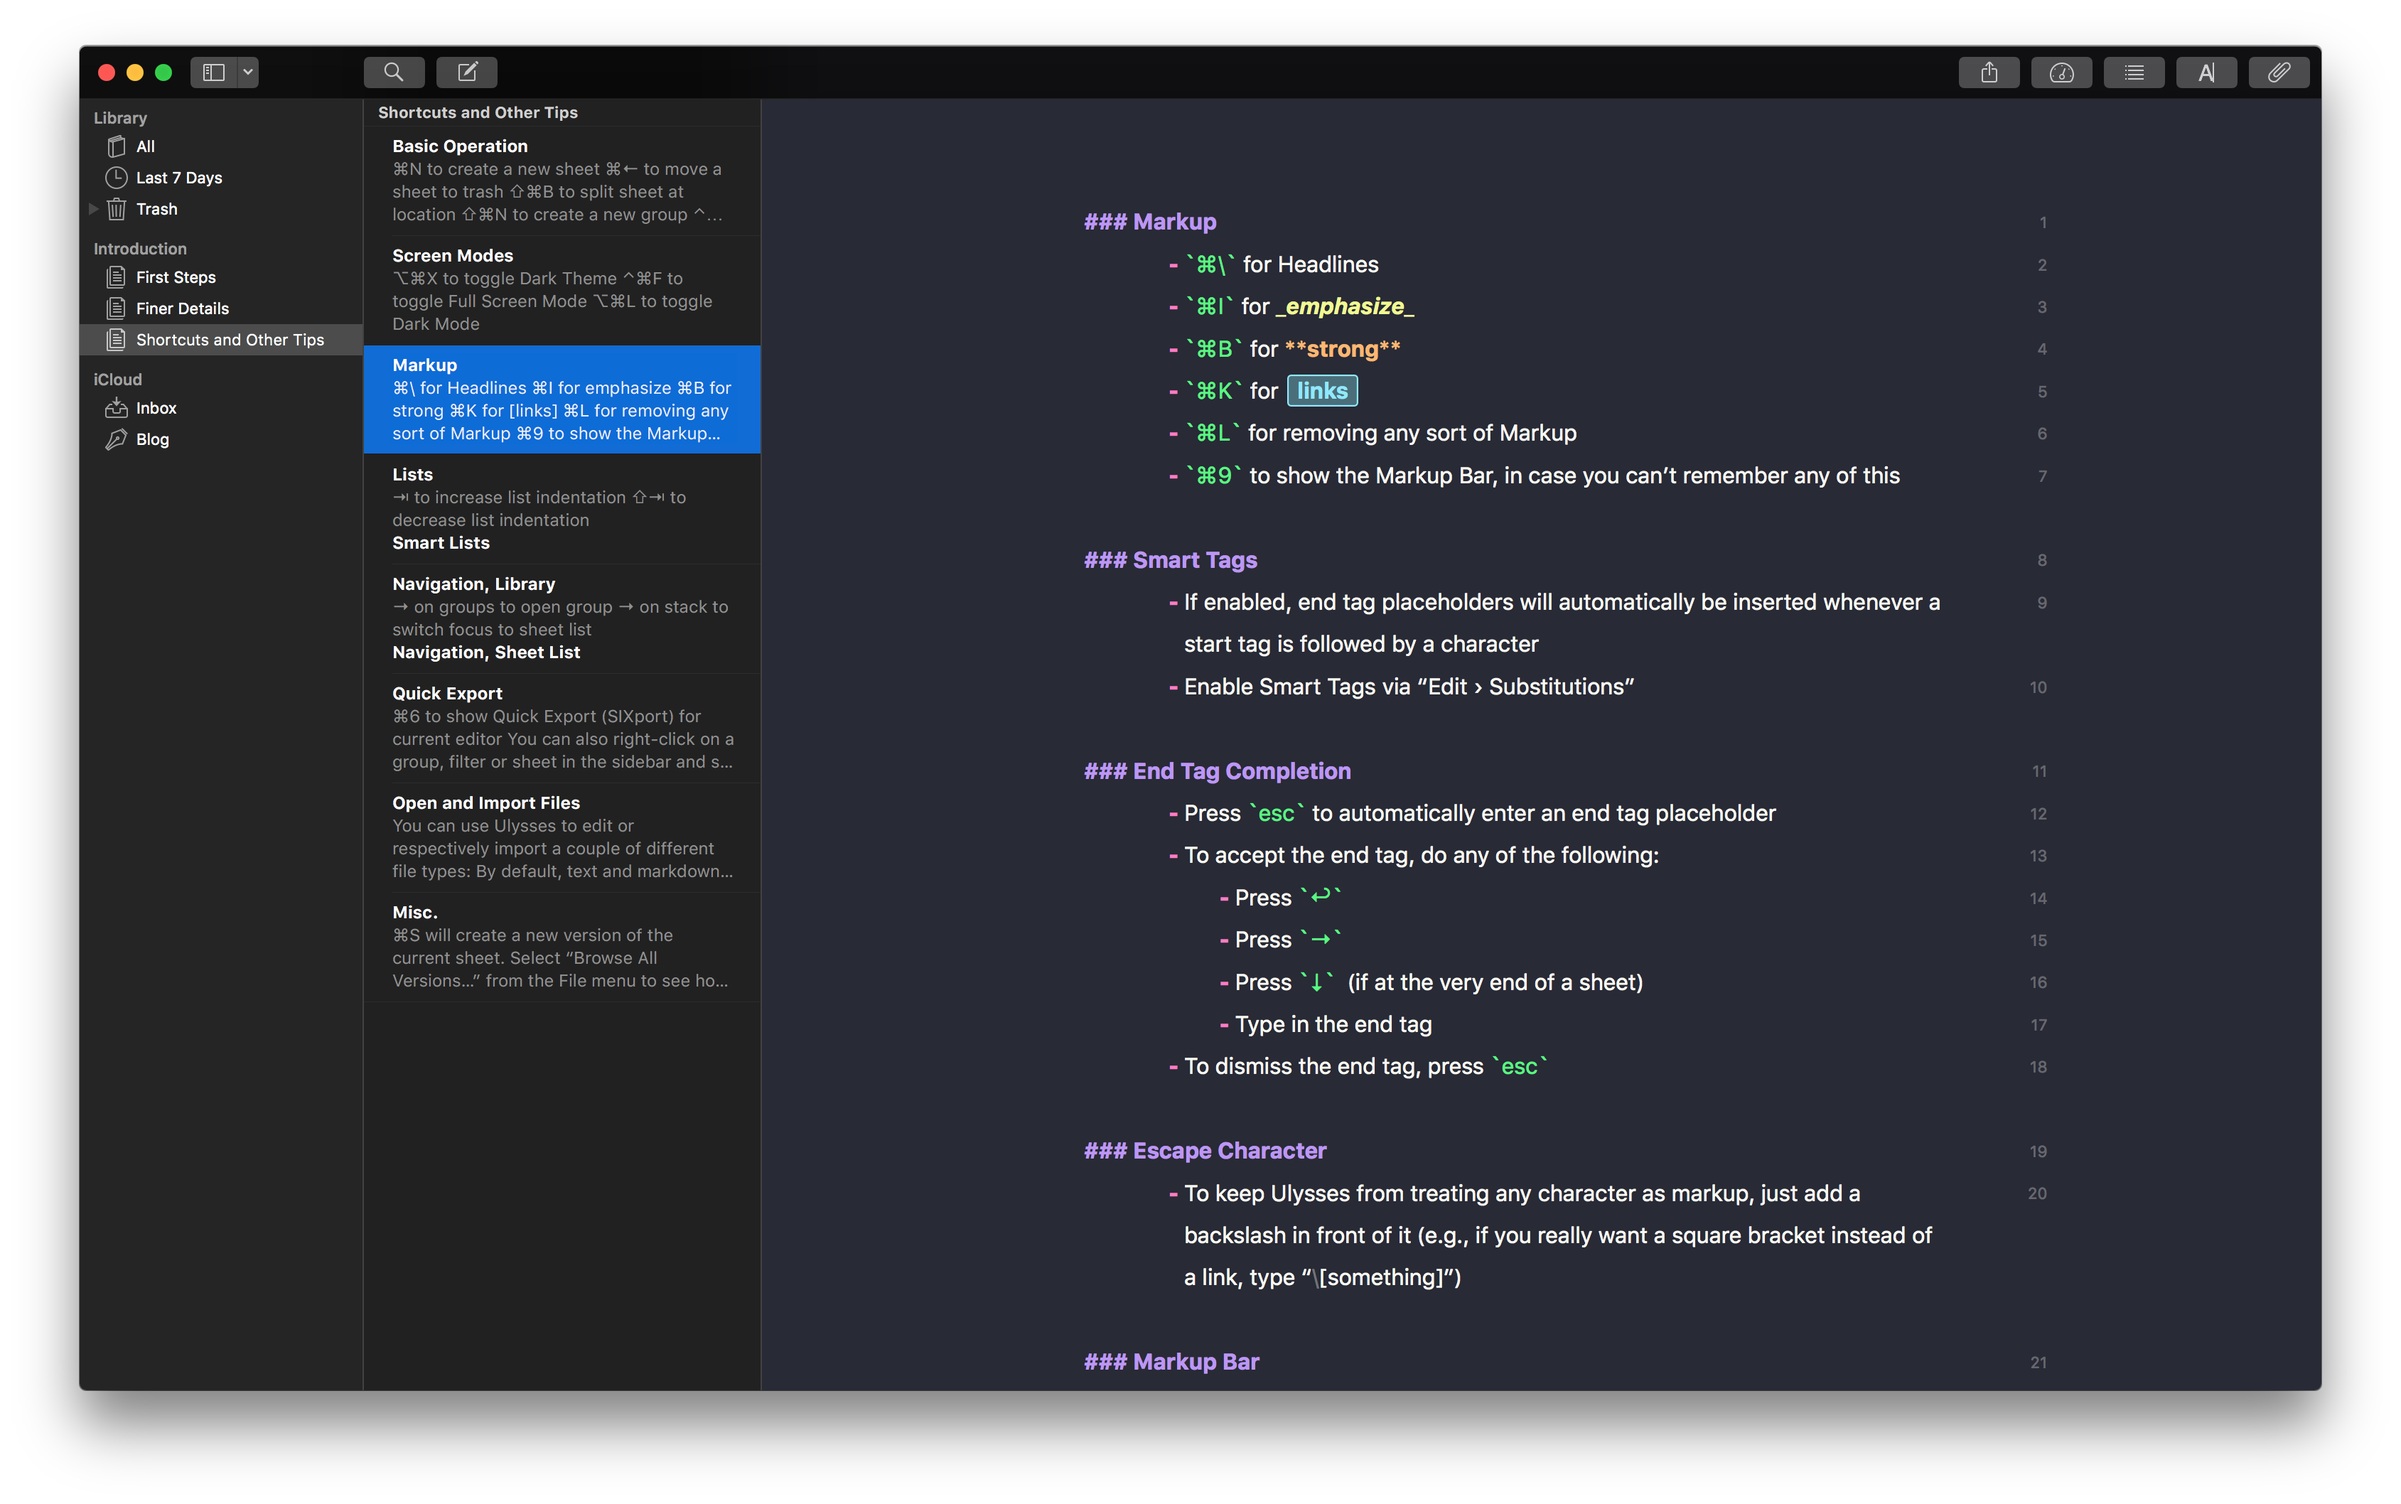
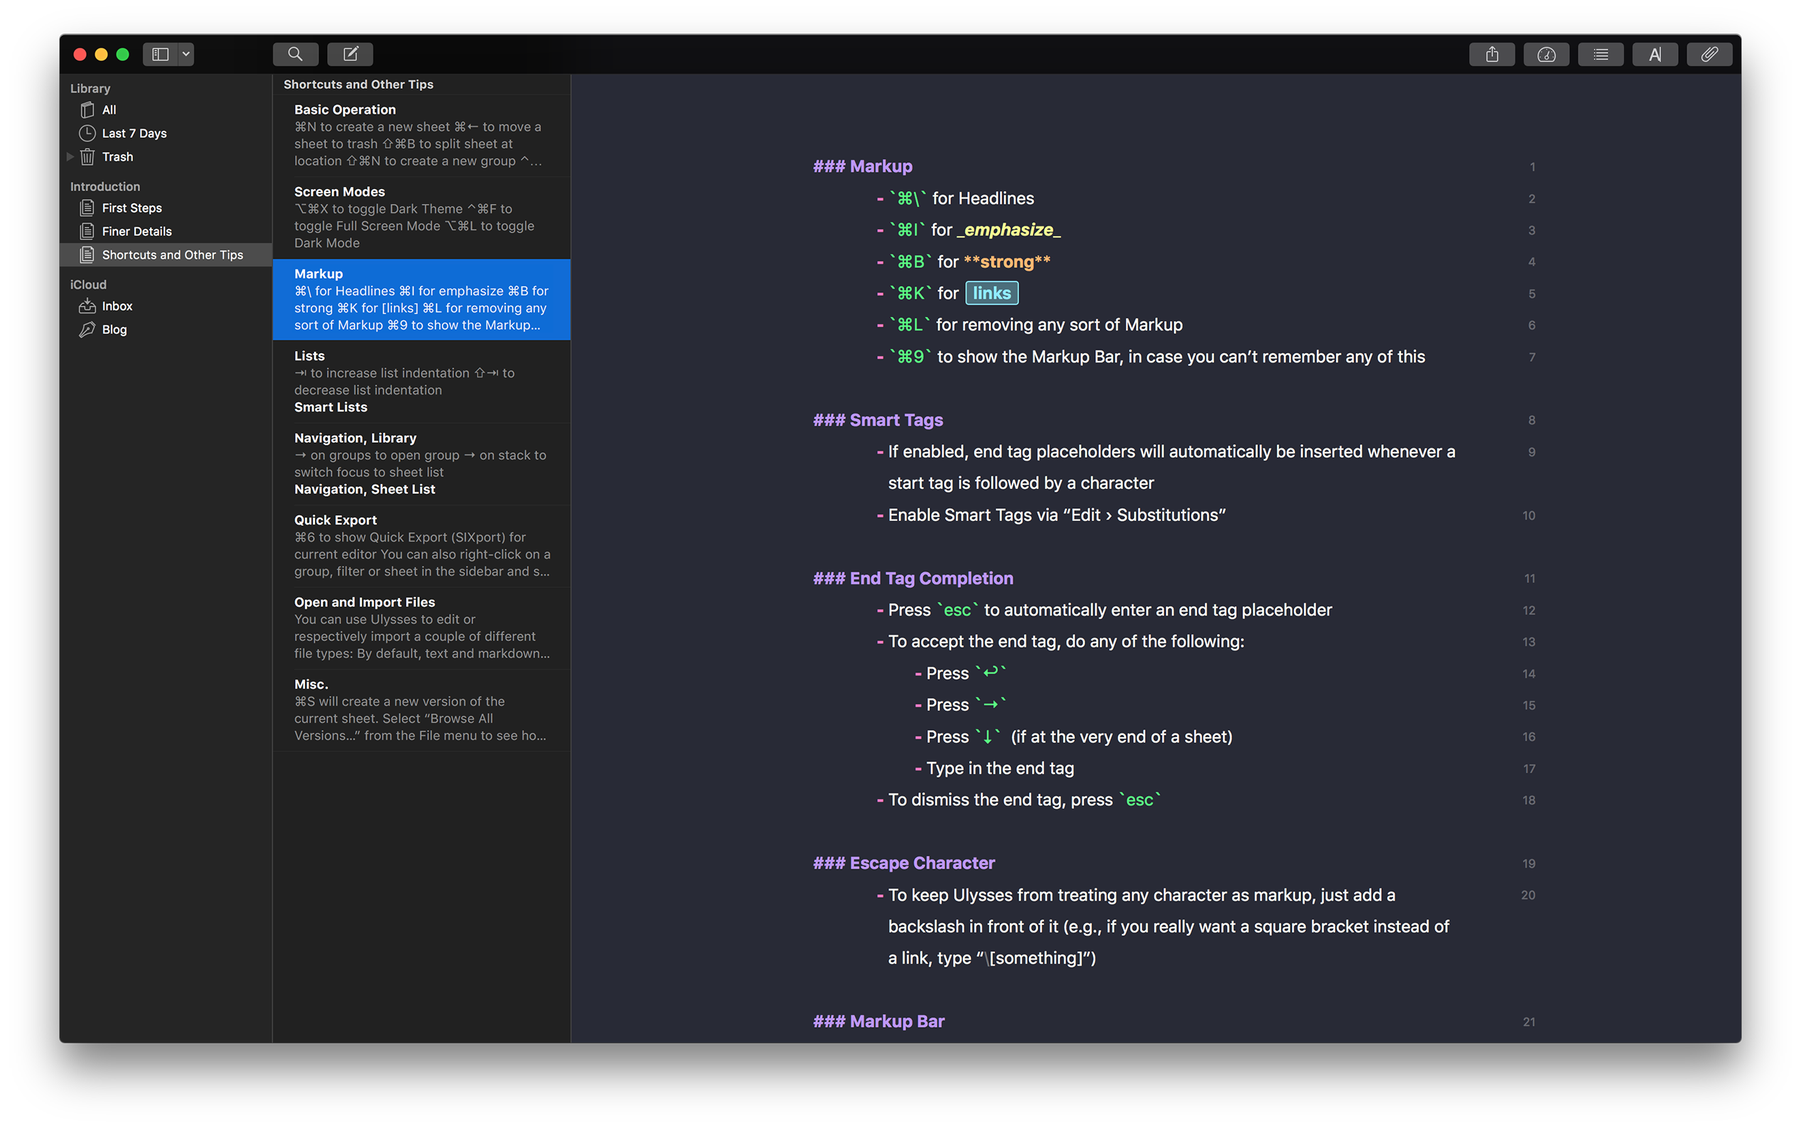
Decreases image size #8

Changed region(s): [[0.1871, 0.247, 0.2806, 0.3088], [0.0624, 0.1853, 0.0935, 0.2161]]

diff --git a/src/content/ulysses/index.html b/src/content/ulysses/index.html
@@ -7,7 +7,7 @@ icon_width: 198
 icon_height: 184
 ---
 
-<img class="preview" src="{{ baseurl }}/assets/img/screenshots/ulysses.png" alt="Theme Preview" width="3378" height="2116">
+<img class="preview" src="{{ baseurl }}/assets/img/screenshots/ulysses.png" alt="Theme Preview" width="1267" height="794">
 
 <div class="instructions">
 	<h3>Ulysses</h3>
